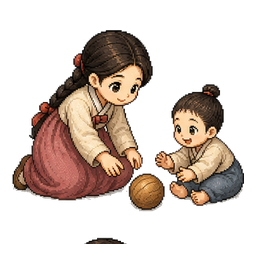
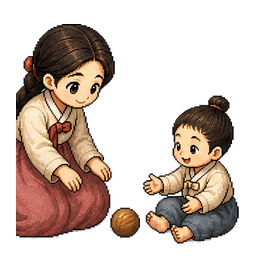
fix: clean rest and core job scenes

diff --git a/src/app.js b/src/app.js
@@ -245,7 +245,9 @@ activityFrames.herbs=[1,2,3].map(n=>`../assets/characters/seonhwa/activity-consi
 activityFrames.tea=[1,1,1].map(n=>`../assets/characters/seonhwa/activity-consistent/age-09/rest-legacy-${n}.png`);
 ['farmwork','childcare','kitchenhelp','woodwork','loomwork','masonry','clinichelp','ferryhelp','merchanthelp'].forEach(name=>{activityFrames[name]=[1,2,3].map(n=>`../assets/characters/seonhwa/job-actions/${name}-${n}.png`);});
 // The modular errand frames crop the top of the hair in frame 1. Keep the complete v4 frames.
-const modularActivities=new Set(['calligraphy','arithmetic','manners','houseclean','rest','sleep']);
+// Rest keeps the clean horizontal bedding frames. The age-modular rest sheet is
+// diagonally posed and becomes visibly jagged when reduced inside the mobile stage.
+const modularActivities=new Set(['calligraphy','arithmetic','manners','houseclean']);
 function activityFrameSet(activity){
   if(!modularActivities.has(activity))return activityFrames[activity];
   const name=activity==='sleep'?'rest':activity,age=String(growthAssetAge(growthVisualAge())).padStart(2,'0');
@@ -694,6 +696,43 @@ const endingRelationCandidates=[
   {id:'taegyeom',name:'태겸',role:'상단 후계자',image:'../assets/characters/romance/taegyeom/vacation.png',assetReady:true,minAge:13,ending:'대상인의 동반자',dialogues:['“좋은 물건보다 좋은 인연을 만나는 일이 더 귀하다고 하더군.”','“이 길 끝에 재미있는 장이 선다는데, 함께 가겠어?”']},
   {id:'hyeon',name:'현',role:'정체를 숨긴 왕자',image:'../assets/characters/romance/hyeon/vacation.png',assetReady:true,minAge:13,ending:'왕자의 연인',dialogues:['“내가 누구인지는 잠시 잊고, 오늘만 평범하게 걸어도 될까?”','“또 만났네. 이쯤 되면 우연이라고만 하기는 어렵겠어.”']}
 ];
+const relationEpisodeCatalog={
+  doyun:[
+    {id:'doyun-1',title:'흩어진 화살',activities:['swordsmanship','martial'],line:'활터에 흩어진 화살을 함께 주우며 젊은 무관 도윤과 처음 인사를 나눴어요.'},
+    {id:'doyun-2',title:'마당의 충돌',activities:['sweeping','farmwork'],line:'일손을 돕던 도윤과 부딪힐 뻔했지만 서로 웃으며 길을 비켜 주었어요.'},
+    {id:'doyun-3',title:'산길의 발자국',activities:['dungeon','herbs'],line:'산길의 낯선 발자국을 도윤과 함께 살펴 위험을 피했어요.'},
+    {id:'doyun-4',title:'강가의 약속',activities:['vacation'],line:'강바람 속에서 도윤이 지키고 싶은 것에 관한 이야기를 들려주었어요.'},
+    {id:'doyun-5',title:'나란히 선 활터',activities:['swordsmanship','vacation'],line:'도윤은 다음에는 우연이 아니라 약속을 정해 만나자고 말했어요.'}
+  ],
+  seojin:[
+    {id:'seojin-1',title:'바뀐 서책',activities:['reading','classics'],line:'서책이 뒤바뀐 일을 계기로 선비 서진과 처음 이야기를 나눴어요.'},
+    {id:'seojin-2',title:'먹이 번진 글',activities:['copying','reading'],line:'번진 먹 자국을 서진과 함께 수습하며 뜻밖의 웃음을 나눴어요.'},
+    {id:'seojin-3',title:'어려운 물음',activities:['tutoring','arithmetic'],line:'서진과 서로 다른 풀이를 내놓고 밤이 늦도록 답을 찾아보았어요.'},
+    {id:'seojin-4',title:'정자의 시구',activities:['vacation'],line:'정자에서 서진이 풍경을 담은 짧은 시구를 들려주었어요.'},
+    {id:'seojin-5',title:'남겨 둔 책갈피',activities:['classics','vacation'],line:'서진은 다시 만날 날을 표시하듯 서책에 작은 책갈피를 남겼어요.'}
+  ],
+  yeonwoo:[
+    {id:'yeonwoo-1',title:'날아간 화첩',activities:['painting','vacation'],line:'바람에 날아간 화첩을 주워 주며 화공 연우와 처음 만났어요.'},
+    {id:'yeonwoo-2',title:'마르지 않은 색',activities:['painting'],line:'연우와 물감을 나누어 쓰며 같은 풍경을 서로 다른 색으로 그렸어요.'},
+    {id:'yeonwoo-3',title:'장단과 붓끝',activities:['music','dance'],line:'음악과 춤의 움직임을 화폭에 옮기는 연우의 작업을 도왔어요.'},
+    {id:'yeonwoo-4',title:'달빛 초상',activities:['vacation'],line:'연우는 달빛 아래의 모습을 오래 기억하고 싶다며 붓을 들었어요.'},
+    {id:'yeonwoo-5',title:'비워 둔 자리',activities:['painting','vacation'],line:'연우의 새 그림에는 선화가 함께 볼 자리가 비워져 있었어요.'}
+  ],
+  taegyeom:[
+    {id:'taegyeom-1',title:'잘못 묶인 짐표',activities:['errand','ferryhelp'],line:'뒤바뀐 짐표를 바로잡으며 상단 후계자 태겸과 처음 만났어요.'},
+    {id:'taegyeom-2',title:'한 냥의 흥정',activities:['shopping','merchanthelp'],line:'태겸과 물건값을 두고 재치 있는 흥정을 벌였어요.'},
+    {id:'taegyeom-3',title:'비에 젖은 장부',activities:['arithmetic','merchanthelp'],line:'젖은 장부를 함께 복원하며 태겸의 책임감을 알게 되었어요.'},
+    {id:'taegyeom-4',title:'나루의 저녁',activities:['ferryhelp','vacation'],line:'나루의 저녁 장사를 마치고 태겸과 따뜻한 차를 나누었어요.'},
+    {id:'taegyeom-5',title:'함께 갈 장길',activities:['shopping','vacation'],line:'태겸은 다음 큰 장에는 손님이 아니라 동행으로 와 달라고 했어요.'}
+  ],
+  hyeon:[
+    {id:'hyeon-1',title:'평범한 윷놀이',activities:['manners','vacation'],line:'신분을 숨긴 청년 현과 소박한 놀이를 하며 처음 인사를 나눴어요.'},
+    {id:'hyeon-2',title:'낯선 호위',activities:['dungeon','swordsmanship'],line:'위험한 길에서 능숙하게 앞을 막아선 현의 낯선 모습을 보았어요.'},
+    {id:'hyeon-3',title:'궁 밖의 소문',activities:['shopping','errand'],line:'저잣거리의 소문을 듣던 현이 자신의 이야기는 조용히 감추었어요.'},
+    {id:'hyeon-4',title:'등불 아래 진심',activities:['vacation','spellcraft'],line:'등불 아래에서 현은 평범한 이름으로 불리고 싶다는 마음을 털어놓았어요.'},
+    {id:'hyeon-5',title:'다시 만날 문',activities:['manners','vacation'],line:'현은 언젠가 모든 것을 밝히고 다시 만나겠다고 약속했어요.'}
+  ]
+};
 const careerEndingCandidates=[
   {id:'queen',title:'백성을 품은 여왕',description:'기품과 지혜, 굳은 마음으로 백성의 삶을 살피는 군주가 되었습니다.',weights:{dignity:5,intelligence:4,mentality:3,manners:2,speech:2}},
   {id:'royal-scholar',title:'왕실 학사',description:'깊은 학문과 반듯한 품격으로 나라의 기록과 배움을 맡았습니다.',weights:{intelligence:5,dignity:2,manners:2,mentality:1}},
@@ -741,14 +780,26 @@ function normalizeRelations(){
     const legacyMeetings=Number.isFinite(Number(saved))?Number(saved):0;
     const record=saved&&typeof saved==='object'?saved:{};
     const meetings=Math.max(0,Number(record.meetings??legacyMeetings)||0);
-    game.relations[candidate.id]={meetings,affinity:Math.max(0,Math.min(100,Number(record.affinity)||meetings*5)),lastMetAt:record.lastMetAt||null,dateUnlocked:Boolean(record.dateUnlocked||(meetings>=5&&game.age>=16))};
+    const completedEpisodes=Array.isArray(record.completedEpisodes)?[...new Set(record.completedEpisodes.filter(id=>typeof id==='string'))]:[];
+    game.relations[candidate.id]={meetings:Math.max(meetings,completedEpisodes.length),affinity:Math.max(0,Math.min(100,Number(record.affinity)||meetings*5)),lastMetAt:record.lastMetAt||null,dateUnlocked:Boolean(record.dateUnlocked||(Math.max(meetings,completedEpisodes.length)>=5&&game.age>=16)),completedEpisodes,holidayFlags:record.holidayFlags&&typeof record.holidayFlags==='object'?record.holidayFlags:{},vacationMemories:Array.isArray(record.vacationMemories)?record.vacationMemories:[],relationship:record.relationship||'지인'};
   });
 }
 function relationRecord(id){normalizeRelations();return game.relations[id];}
-function recordRelationEncounter(candidate){
-  const record=relationRecord(candidate.id);record.meetings+=1;record.affinity=Math.min(100,record.affinity+5);record.lastMetAt=game.currentDate||null;
+function recordRelationEncounter(candidate,episode=null){
+  const record=relationRecord(candidate.id),isNew=episode&&!record.completedEpisodes.includes(episode.id);
+  if(isNew){record.completedEpisodes.push(episode.id);record.meetings=Math.min(5,record.meetings+1);}
+  record.affinity=Math.min(100,record.affinity+(isNew?7:2));record.lastMetAt=game.currentDate||null;
   if(record.meetings>=5&&game.age>=16)record.dateUnlocked=true;
   return record;
+}
+function nextRelationEpisode(candidate,activityId){return (relationEpisodeCatalog[candidate.id]||[]).find(episode=>episode.activities.includes(activityId)&&!relationRecord(candidate.id).completedEpisodes.includes(episode.id))||null;}
+function maybeScheduleRelationEncounter(action){
+  if(game.age<13||action.id==='vacation'||Math.random()>=.14)return null;
+  const eligible=endingRelationCandidates.map(candidate=>({candidate,episode:nextRelationEpisode(candidate,action.id)})).filter(entry=>entry.episode);
+  if(!eligible.length)return null;
+  const minimum=Math.min(...eligible.map(entry=>relationRecord(entry.candidate.id).meetings));
+  const pool=eligible.filter(entry=>relationRecord(entry.candidate.id).meetings===minimum),picked=pool[Math.floor(Math.random()*pool.length)];
+  recordRelationEncounter(picked.candidate,picked.episode);return picked;
 }
 function balancedRelationCandidate(candidates){
   if(!candidates.length)return null;
@@ -791,8 +842,9 @@ async function playVacationScene(prize,index){
     relation=balancedRelationCandidate(candidates);const fromLeft=Math.random()<.5;
     person.querySelector('img').src=relation.image;person.querySelector('img').alt=`엔딩 인연 후보 ${relation.name}`;
     person.className=`encounter-character ${fromLeft?'from-left':'from-right'}`;person.hidden=false;scene.classList.add('has-encounter');
-    document.querySelector('#encounterName').textContent=relation.name;document.querySelector('#encounterText').textContent=relation.dialogues[Math.floor(Math.random()*relation.dialogues.length)];talk.hidden=false;
-    recordRelationEncounter(relation);
+    const episode=nextRelationEpisode(relation,'vacation');
+    document.querySelector('#encounterName').textContent=relation.name;document.querySelector('#encounterText').textContent=episode?.line||relation.dialogues[Math.floor(Math.random()*relation.dialogues.length)];talk.hidden=false;
+    recordRelationEncounter(relation,episode);
     await waitForVacationTap('대화를 읽은 뒤 터치');
   }
   talk.hidden=true;person.hidden=true;scene.classList.remove('has-encounter','child-live');scene.hidden=true;scene.dataset.effect='';scene.dataset.season='';document.querySelector('#vacationMotion').replaceChildren();phone.classList.remove('vacation-playing');playHomeMusic();
@@ -1825,7 +1877,9 @@ async function playWeeklySchedule(selected) {
     const bonusText=progressReward.reward?` · ${progressReward.reward.name} 획득`:progressReward.bonusPay?` · 연속 대성공 보너스 +${progressReward.bonusPay}냥`:'';
     const moneyText = (moneyChange > 0 ? `은전 +${moneyChange}냥` : moneyChange < 0 ? `은전 ${moneyChange}냥` : isWork&&outcome==='mistake'?'실수하여 일당 없음':'비용 없음')+bonusText;
     const resultSummary=orderedChangeEntries(resolvedChange).filter(([,value])=>value!==0).map(([key,value])=>`${statLabels[key]||key} ${value>0?'+':''}${value}`).join(' · ');
-    dayResult.innerHTML = `<b>${action.name} · ${outcomeLabels[outcome]}</b><span>${resultSummary||'능력치 변화 없음'}<br>${moneyText} · 현재 ${game.money.toLocaleString()}냥</span>`;
+    const relationEvent=maybeScheduleRelationEncounter(action);
+    dayResult.innerHTML = `<b>${action.name} · ${outcomeLabels[outcome]}</b><span>${resultSummary||'능력치 변화 없음'}<br>${moneyText} · 현재 ${game.money.toLocaleString()}냥${relationEvent?`<br>인연 · ${relationEvent.candidate.name} — ${relationEvent.episode.title}`:''}</span>`;
+    if(relationEvent)document.querySelector('#dialogueText').textContent=relationEvent.episode.line;
     if(action.id!=='vacation'){
       dayResult.hidden = false;
       await new Promise(resolve => setTimeout(resolve, 900));

diff --git a/src/index.html b/src/index.html
@@ -4,8 +4,8 @@
   <meta charset="utf-8">
   <meta name="viewport" content="width=device-width,initial-scale=1,viewport-fit=cover">
   <title>선화공주 만들기 — 자산 로딩 테스트</title>
-  <link rel="stylesheet" href="style.css?v=0.62.61-debug">
-  <link rel="stylesheet" href="schedule.css?v=0.62.61-debug">
+  <link rel="stylesheet" href="style.css?v=0.62.62-debug">
+  <link rel="stylesheet" href="schedule.css?v=0.62.62-debug">
   <link rel="stylesheet" href="schedule-pm2.css?v=0.62.09-debug">
   <link rel="stylesheet" href="birthday.css?v=0.62.55-debug">
   <link rel="stylesheet" href="prologue.css?v=0.62.28-debug">
@@ -41,7 +41,7 @@
       </div>
       <span class="loading-caption">이야기를 열 준비가 되었어요</span>
       <button class="studio-start-sound" id="studioStartSound" type="button">인연의 문을 열기</button>
-      <small class="loading-version" aria-label="현재 게임 버전">v0.62.61-debug</small>
+      <small class="loading-version" aria-label="현재 게임 버전">v0.62.62-debug</small>
     </section>
     <section class="prologue" id="prologue" aria-label="이야기 시작 영상" hidden>
       <audio id="prologueMusic" src="../assets/audio/music/prologue-lantern-and-dawn.mp3" preload="auto" loop></audio>
@@ -196,6 +196,6 @@
       </div>
     </section>
   </main>
-  <script src="story-data.js?v=0.62.57-debug"></script><script src="app.js?v=0.62.61-debug"></script>
+  <script src="story-data.js?v=0.62.57-debug"></script><script src="app.js?v=0.62.62-debug"></script>
 </body>
 </html>

diff --git a/tools/build_childcare_kitchen_frames.py b/tools/build_childcare_kitchen_frames.py
@@ -1,0 +1,35 @@
+from pathlib import Path
+
+from PIL import Image
+
+from build_core_job_motion_frames import clear_checkerboard, content_bounds
+
+
+ROOT = Path(__file__).resolve().parents[1]
+OUTPUT = ROOT / "assets/characters/seonhwa/job-actions"
+SOURCE = OUTPUT / "childcare-kitchen-correction-atlas-source.png"
+NAMES = ("childcare", "kitchenhelp")
+
+
+def main() -> None:
+    atlas = clear_checkerboard(Image.open(SOURCE))
+    cell_width, cell_height = atlas.width // 3, atlas.height // 2
+    for row, name in enumerate(NAMES):
+        for column in range(3):
+            # The generator may let a neighbouring pose touch a grid boundary.
+            # Trim a small gutter before finding the subject bounds so fragments
+            # from the next cell never enter an exported animation frame.
+            gutter_x, gutter_y = 46, 10
+            cell = atlas.crop((column * cell_width + gutter_x, row * cell_height + gutter_y,
+                               (column + 1) * cell_width - gutter_x, (row + 1) * cell_height - gutter_y))
+            bounds = content_bounds(cell)
+            if bounds:
+                cell = cell.crop(bounds)
+            cell.thumbnail((232, 220), Image.Resampling.LANCZOS)
+            frame = Image.new("RGBA", (256, 256), (0, 0, 0, 0))
+            frame.alpha_composite(cell, ((256 - cell.width) // 2, 244 - cell.height))
+            frame.save(OUTPUT / f"{name}-{column + 1}.png", optimize=True)
+
+
+if __name__ == "__main__":
+    main()

diff --git a/README.md b/README.md
@@ -1002,3 +1002,11 @@ python tools/verify_assets.py
 - 목공소·베틀방·기와 작업·약방 견습·나루터·상점 판매를 각각 서로 다른 3단계 동작 프레임으로 교체했습니다.
 - 기존처럼 1번과 3번이 같은 그림을 반복하지 않고, 준비 → 작업 → 마무리 순서로 자연스럽게 이어집니다.
 - 여섯 작업의 배경 가구·작업대·바닥선에 맞춰 위치와 크기를 개별 조정하고 모바일 축소 규칙을 추가했습니다.
+# v0.62.62-debug
+
+- 아이 돌보기는 주인공을 왼쪽, 아이를 오른쪽에 고정해 `장난감 건네기 → 아이가 손 내밀기 → 공 굴리기`가 순간이동 없이 이어지도록 다시 제작했습니다.
+- 주방 보조는 작업대와 캐릭터 위치를 고정하고 `재료 놓기 → 썰기 → 칼을 내려놓고 그릇에 담기`로 단순화해 외곽이 지저분해 보이던 문제를 수정했습니다.
+- 집에서 휴식의 잠자기는 축소할 때 깨져 보이던 대각선 모듈형 이미지를 제외하고, 얼굴과 이불이 온전히 보이는 가로형 전용 프레임으로 고정했습니다.
+- 남자 주인공 5명에게 활동 장소가 다른 고유 만남 5회씩 총 25개 에피소드를 추가했습니다.
+- 13세 이후 관련 교육·아르바이트·저잣거리에서 확률적으로 고유 만남이 기록되며, 바캉스 만남도 중복 에피소드 대신 호감도만 반영하도록 분리했습니다.
+- 5개 고유 만남과 16세 조건을 충족하면 데이트 가능 상태로 전환됩니다.

diff --git a/docs/PROJECT_STATUS.md b/docs/PROJECT_STATUS.md
@@ -76,7 +76,7 @@
 1. 완료 — 513개 이미지 손상·빈 파일·투명도 전수 검사 (`docs/qa/09_FULL_ASSET_AUDIT.md`)
 2. 진행 중 — 13세 옥색 학문 한복 교정 완료, 일반·캐시 의상 동일성 순차 정리 (`docs/qa/10_WARDROBE_IDENTITY_AUDIT.md`)
 3. 진행 중 — 신규 아르바이트 9종의 전용 3프레임과 배경별 좌표 적용 완료, 전체 활동의 조연 겹침 모바일 검수 계속
-4. 5개 인연 기록의 장기 플레이·엔딩 전환 회귀 테스트
+4. 진행 중 — 인연 후보 5명 × 고유 만남 5회 데이터와 일정·바캉스 기록 연결 완료, 장기 플레이·엔딩 전환 회귀 테스트 계속
 5. 엔딩 관련 인물 5명과 이벤트·호감도·분기 구현
 
 ## 저장 원칙
